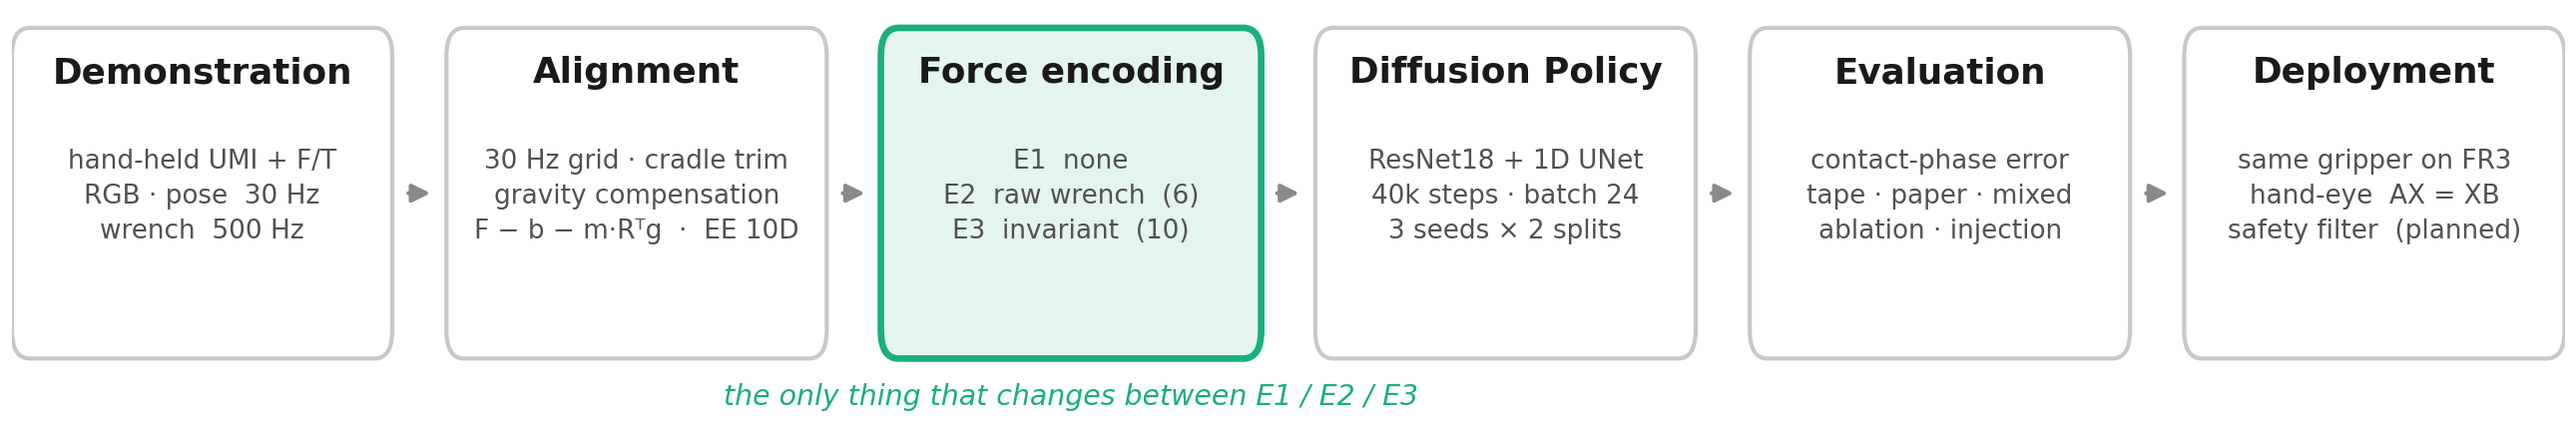
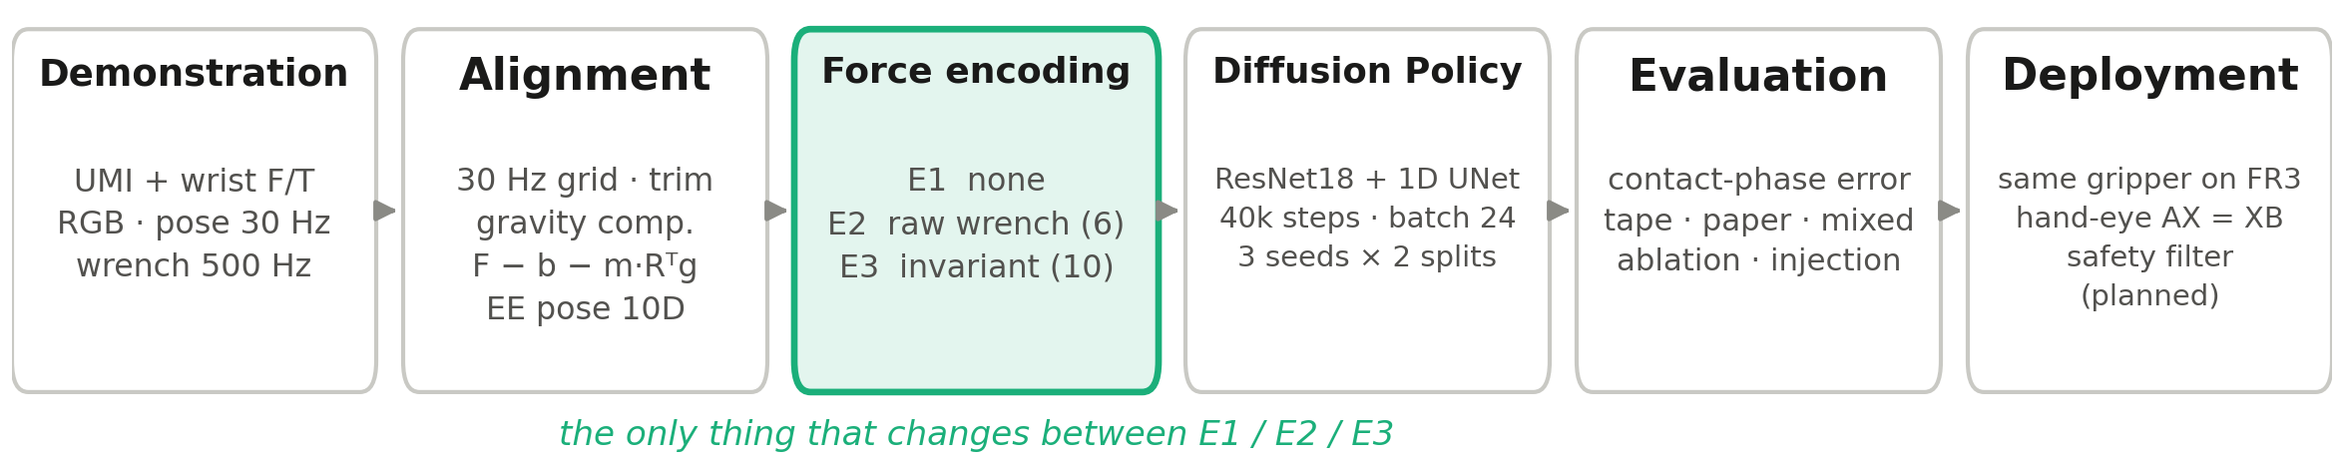
로봇 배포 섹션에 실제 FR3 장착 사진 추가
같은 UMI 그리퍼를 FR3에 옮겨 달고 같은 접촉 툴을 문 사진으로 "9월 중 추가"
자리표시자를 대체. 상태 문구도 실제에 맞춤 (랩 브릿지 연결 완료, 모의 브릿지
폐루프 통과, 실기 영상은 예정).

Changed region(s): [[0.0, 0.0304, 0.9949, 0.8505], [0.2176, 0.8808, 0.5907, 0.972], [0.8705, 0.6075, 0.9638, 0.6682]]

diff --git a/index.html b/index.html
@@ -33,6 +33,10 @@ figcaption{font-size:14px;color:var(--mute);margin-top:10px;line-height:1.55;tex
 .grid{display:grid;grid-template-columns:repeat(auto-fit,minmax(260px,1fr));gap:16px}
 .card{background:var(--card);border:1px solid var(--rule);border-radius:14px;padding:12px}
 .card .t{font-weight:600;margin:10px 2px 2px;color:var(--ink)} .card .d{font-size:14px;color:var(--ink2);margin:0 2px}
+.card>img{width:100%;border-radius:10px;display:block}
+.robot{display:flex;gap:16px;align-items:flex-start;max-width:720px;margin:0 auto;flex-wrap:wrap}
+.robot>img{width:270px;max-width:100%;border-radius:10px;display:block;flex:0 0 auto}
+.robot>div{flex:1 1 260px;min-width:0}
 .soon{aspect-ratio:16/10;border-radius:10px;background:var(--chip);display:grid;place-items:center;color:var(--mute);font-size:14px;text-align:center;padding:12px}
 .two{display:grid;grid-template-columns:1.25fr 1fr .8fr;gap:14px;align-items:start;max-width:720px;margin:0 auto}
 .k{font-variant-numeric:tabular-nums;font-weight:600;color:var(--ink)}
@@ -87,11 +91,11 @@ footer{border-top:1px solid var(--rule);padding-top:18px;font-size:13.5px;color:
 
 <section id="robot">
   <h2>로봇 배포 실험</h2>
-  <div class="grid">
-    <div class="card">
-      <div class="soon">Franka FR3 실험 영상<br>9월 중 추가</div>
-      <div class="t">같은 그리퍼를 FR3 플랜지에 옮겨 달아 폐루프 실행</div>
-      <p class="d">시연 장치와 로봇 장치가 같은 기구·같은 센서를 공유합니다. 배포 루프·안전 필터·hand-eye 캘리브레이션은 구현되어 있고 시연 재생 시험을 통과했습니다.</p>
+  <div class="card robot">
+    <img src="media/robot_setup.jpg" alt="같은 UMI 그리퍼를 장착하고 접촉 툴을 문 Franka FR3">
+    <div>
+      <div class="t">같은 그리퍼를 FR3에 옮겨 달고 같은 접촉 툴을 물린 구성</div>
+      <p class="d">시연 장치와 로봇 장치가 같은 기구·같은 센서를 공유합니다. 배포 루프·안전 필터·연구실 FR3 브릿지 연결까지 구현되어 있고, 로봇 없는 모의 브릿지로 폐루프 시험을 통과했습니다. <b>폐루프 실행 영상은 추가 예정입니다.</b></p>
     </div>
   </div>
 </section>
